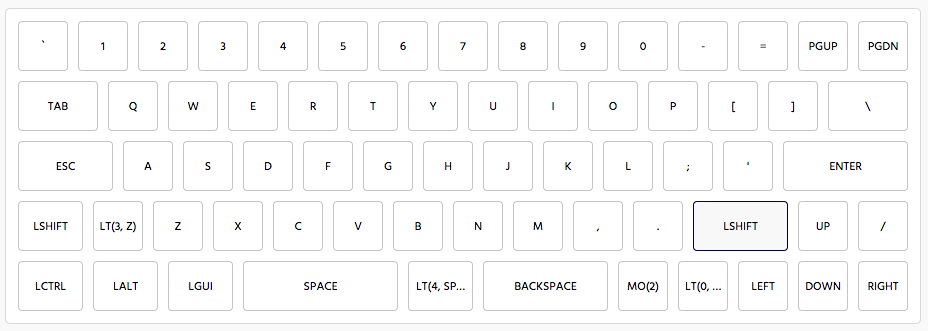
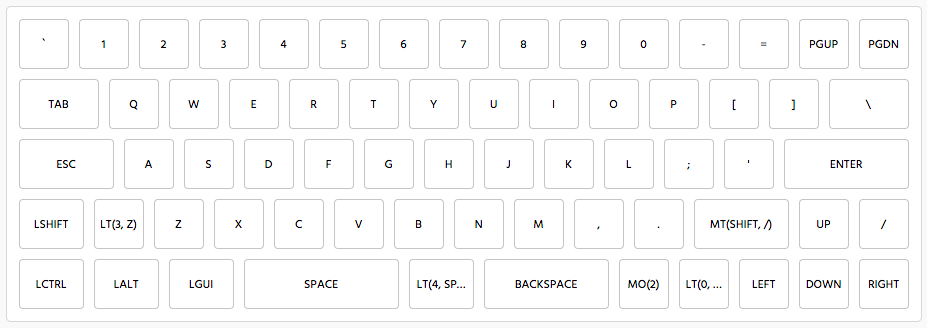
Update code to reflect latest config

diff --git a/keyboards/dz60/keymaps/model42/keymap.c b/keyboards/dz60/keymaps/model42/keymap.c
@@ -5,18 +5,18 @@ const uint16_t PROGMEM keymaps[][5][15] = {
 KEYMAP(KC_GRV, KC_1, KC_2, KC_3, KC_4, KC_5, KC_6, KC_7, KC_8, KC_9, KC_0, KC_MINS, KC_EQL, KC_PGUP, KC_PGDN,
        KC_TAB, KC_Q, KC_W, KC_E, KC_R, KC_T, KC_Y, KC_U, KC_I, KC_O, KC_P, KC_LBRC, KC_RBRC, KC_BSLS,
        KC_ESC, KC_A, KC_S, KC_D, KC_F, KC_G, KC_H, KC_J, KC_K, KC_L, KC_SCLN, KC_QUOT, KC_ENT,
-       KC_LSFT, MO(3), KC_Z, KC_X, KC_C, KC_V, KC_B, KC_N, KC_M, KC_COMM, KC_DOT, MT(MOD_RSFT, KC_SLSH), KC_UP, KC_SLSH,
-       KC_LCTL, KC_LALT, KC_LGUI, KC_SPC, LT(4, KC_SPC), KC_BSPC, MO(2), MO(1), KC_LEFT, KC_DOWN, KC_RGHT),
+       KC_LSFT, LT(3, KC_Z), KC_Z, KC_X, KC_C, KC_V, KC_B, KC_N, KC_M, KC_COMM, KC_DOT, MT(MOD_RSFT, KC_SLSH), KC_UP, KC_SLSH,
+       KC_LCTL, KC_LALT, KC_LGUI, KC_SPC, LT(4, KC_SPC), KC_BSPC, MO(2), LT(1, LGUI(LSFT(KC_R))), KC_LEFT, KC_DOWN, KC_RGHT),
 
 // layer 1
-KEYMAP(KC_GRV, KC_F1, KC_F2, KC_F3, KC_F4, KC_F5, KC_F6, KC_F7, KC_F8, KC_F9, KC_F10, KC_F11, KC_F12, KC_TRNS, KC_DEL,
+KEYMAP(KC_TRNS, KC_TRNS, KC_TRNS, KC_TRNS, KC_TRNS, KC_TRNS, KC_TRNS, KC_TRNS, KC_TRNS, KC_TRNS, KC_TRNS, KC_TRNS, KC_TRNS, KC_TRNS, KC_TRNS,
        KC_TRNS, RGB_TOG, RGB_MOD, RGB_HUI, RGB_HUD, RGB_SAI, RGB_SAD, RGB_VAI, RGB_VAD, KC_TRNS, KC_TRNS, KC_TRNS, KC_TRNS, RESET,
        KC_TRNS, KC_TRNS, KC_TRNS, KC_TRNS, KC_TRNS, KC_TRNS, KC_TRNS, KC_TRNS, KC_TRNS, KC_TRNS, KC_TRNS, KC_TRNS, KC_TRNS,
        KC_TRNS, KC_TRNS, KC_TRNS, BL_DEC, BL_TOGG, BL_INC, BL_STEP, KC_TRNS, KC_TRNS, KC_TRNS, KC_TRNS, KC_TRNS, KC_TRNS, KC_TRNS,
        KC_TRNS, KC_TRNS, KC_TRNS, KC_TRNS, KC_TRNS, KC_TRNS, KC_TRNS, KC_TRNS, KC_TRNS, KC_TRNS, KC_TRNS),
 
 // layer 2
-KEYMAP(KC_TRNS, KC_TRNS, KC_TRNS, KC_TRNS, KC_TRNS, KC_TRNS, KC_TRNS, KC_TRNS, KC_TRNS, KC_TRNS, KC_TRNS, KC_TRNS, KC_TRNS, KC_HOME, KC_END,
+KEYMAP(KC_TRNS, KC_F1, KC_F2, KC_F3, KC_F4, KC_F5, KC_F6, KC_F7, KC_F8, KC_F9, KC_F10, KC_F11, KC_F12, KC_HOME, KC_END,
        KC_TRNS, KC_TRNS, KC_TRNS, KC_TRNS, KC_TRNS, KC_TRNS, KC_TRNS, KC_TRNS, KC_TRNS, KC_TRNS, KC_TRNS, KC_TRNS, KC_TRNS, KC_TRNS,
        KC_TRNS, KC_TRNS, KC_TRNS, KC_TRNS, KC_TRNS, KC_TRNS, KC_TRNS, KC_TRNS, KC_TRNS, KC_TRNS, KC_TRNS, KC_TRNS, KC_TRNS,
        KC_TRNS, KC_TRNS, KC_TRNS, KC_TRNS, KC_TRNS, KC_TRNS, KC_TRNS, KC_TRNS, KC_TRNS, KC_TRNS, KC_TRNS, KC_TRNS, KC_TRNS, KC_TRNS,

diff --git a/keyboards/dz60/keymaps/model42/readme.md b/keyboards/dz60/keymaps/model42/readme.md
@@ -2,10 +2,9 @@
 
 ## 4 Layers
 
-TODO add pictures
-
 ### Layer 0
 
+![layer 0](layer0.png)
 Conventional ANSI layout. Backspace has been replaced with 2 keys, PGUP and PGDN.
 Left shift is 1.25U with 1U key for layer 3, Bottom right shift is 1.75U. Has arrow cluster. Tap right shift for / and dedicated
 / key is to far right.
@@ -13,11 +12,13 @@ Bottom row, split space bar 2.75U (Space), 1.25U (mouse key + WASD), 2.25U (back
 
 ### Layer 1
 
-RGB underglow and backlight controls, F keys mapped to numbers (TODO move these to layer 2)
+![layer 1](layer1.png)
+RGB underglow and backlight controls, Reset
 
 ### Layer 2
 
-PGUP -> HOME, PGDN -> END
+![layer 1](layer2.png)
+F1-F12, PGUP -> HOME, PGDN -> END
 
 ### Layer 3
 
